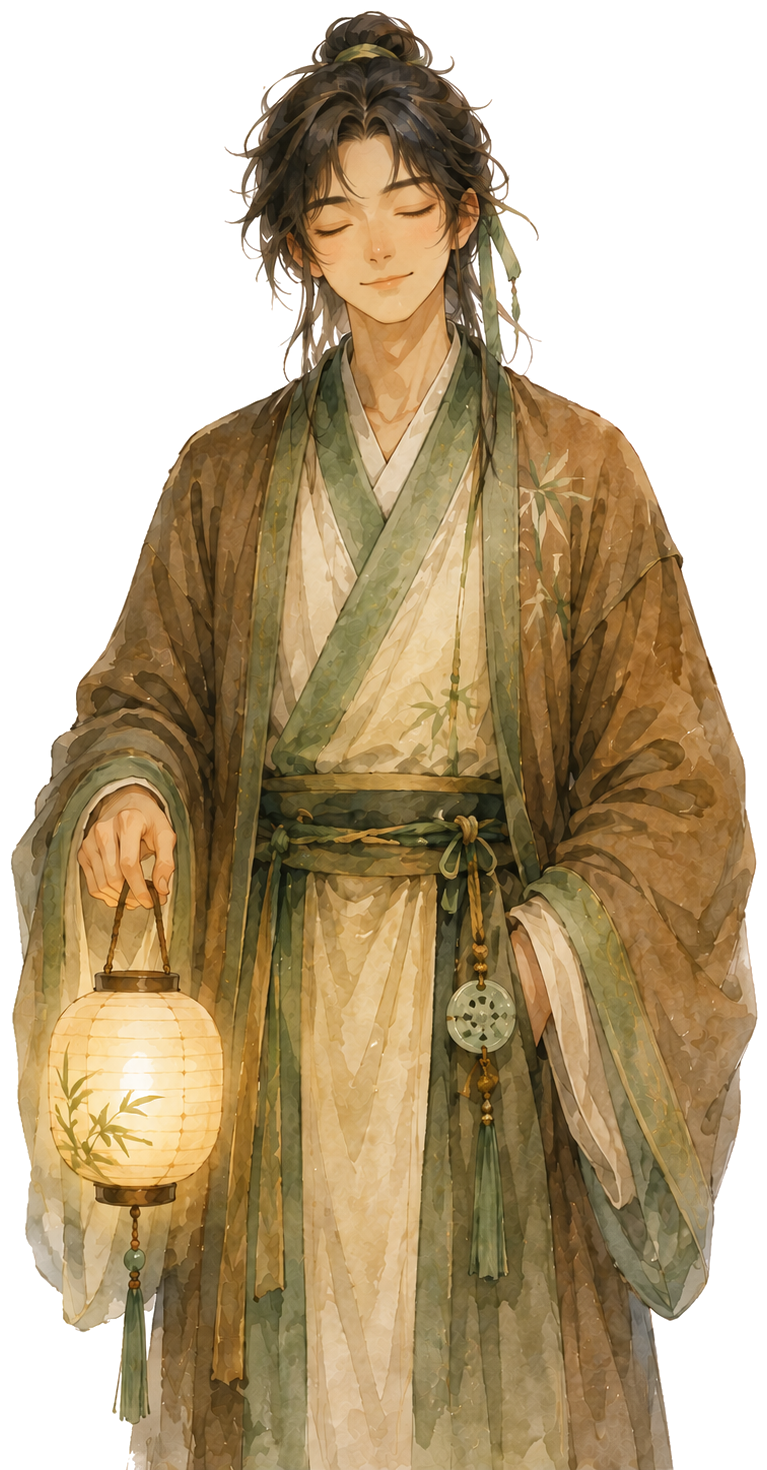
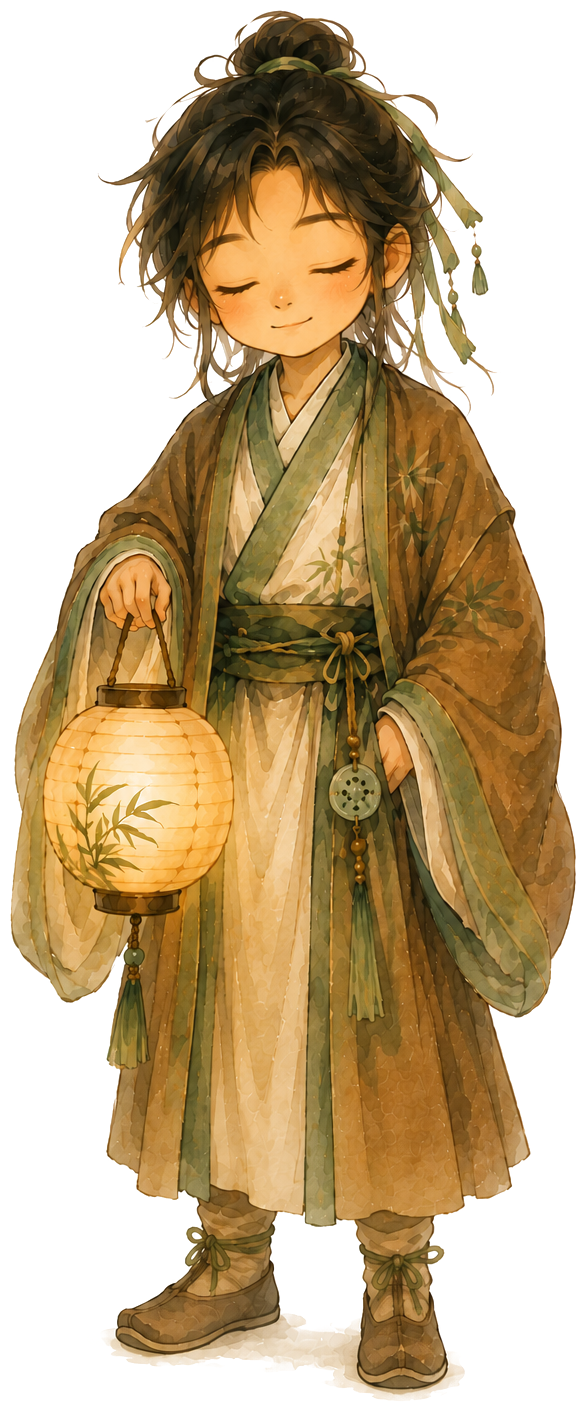
Added Onboarding screen and cultivator design change

diff --git a/src/app/cultivation.tsx b/src/app/cultivation.tsx
@@ -1,4 +1,5 @@
-import { Image, Pressable, StyleSheet, Text, View } from 'react-native';
+import { useState } from 'react';
+import { Image, Pressable, StyleSheet, Text, TextInput, View } from 'react-native';
 import { useTodayDate } from '../hooks/useTodayDate';
 import { daysBetween } from '../services/dayService';
 import {
@@ -6,6 +7,7 @@ import {
   getNextRealm,
   useCultivationStore,
 } from '../store/cultivationStore';
+import { useUserStore } from '../store/userStore';
 
 const REALM_BACKGROUNDS: Record<string, any> = {
   'Beginning Path': require('../../assets/images/cultivation/beginning-path.png'),
@@ -26,6 +28,11 @@ export default function CultivationScreen() {
   const daysSinceStart = startDate ? daysBetween(startDate, todayDate) : 0;
   const currentRealm = getCurrentRealm(totalPoints, daysSinceStart);
   const nextRealm = getNextRealm(currentRealm.name);
+
+  const userName = useUserStore((state) => state.name);
+  const setName = useUserStore((state) => state.setName);
+  const [editingName, setEditingName] = useState(false);
+  const [nameInput, setNameInput] = useState(userName ?? '');
 
   const handleResetAll = () => {
     resetAll();
@@ -51,15 +58,38 @@ export default function CultivationScreen() {
         )}
 
         {__DEV__ && (
-          <View style={styles.devRow}>
-            <Pressable onPress={() => addPoints(100)} style={styles.devButton}>
-              <Text style={styles.devButtonText}>+100 points (dev)</Text>
-            </Pressable>
-            <Pressable onPress={handleResetAll} style={styles.devButton}>
-              <Text style={styles.devButtonText}>Reset all (dev)</Text>
-            </Pressable>
-          </View>
-        )}
+  <View style={styles.devRow}>
+    <Pressable onPress={() => addPoints(100)} style={styles.devButton}>
+      <Text style={styles.devButtonText}>+100 points (dev)</Text>
+    </Pressable>
+    <Pressable onPress={handleResetAll} style={styles.devButton}>
+      <Text style={styles.devButtonText}>Reset all (dev)</Text>
+    </Pressable>
+  </View>
+)}
+
+<View style={styles.nameRow}>
+  {editingName ? (
+    <>
+      <TextInput
+        style={styles.nameInput}
+        value={nameInput}
+        onChangeText={setNameInput}
+        onSubmitEditing={() => {
+          if (nameInput.trim()) setName(nameInput.trim());
+          setEditingName(false);
+        }}
+      />
+      <Pressable onPress={() => { if (nameInput.trim()) setName(nameInput.trim()); setEditingName(false); }}>
+        <Text style={styles.nameEditText}>Save</Text>
+      </Pressable>
+    </>
+  ) : (
+    <Pressable onPress={() => setEditingName(true)}>
+      <Text style={styles.nameEditText}>Playing as {userName} — tap to change</Text>
+    </Pressable>
+  )}
+</View>
       </View>
     </View>
   );
@@ -76,4 +106,7 @@ const styles = StyleSheet.create({
   devRow: { flexDirection: 'row', gap: 10, marginTop: 20 },
   devButton: { backgroundColor: '#A8C3A0', paddingHorizontal: 16, paddingVertical: 10, borderRadius: 12 },
   devButtonText: { color: '#2C2A24', fontWeight: '600' },
+  nameRow: { marginTop: 10, backgroundColor: 'rgba(255,255,255,0.6)', borderRadius: 10, padding: 8 },
+  nameInput: { backgroundColor: 'white', borderRadius: 8, paddingHorizontal: 10, paddingVertical: 4, marginBottom: 6 },
+  nameEditText: { fontSize: 12, color: '#3E3A34', textAlign: 'center' },
 });

diff --git a/src/features/onboarding/Onboarding.tsx b/src/features/onboarding/Onboarding.tsx
@@ -1,0 +1,86 @@
+import { useState } from 'react';
+import { Image, KeyboardAvoidingView, Platform, Pressable, StyleSheet, Text, TextInput, View } from 'react-native';
+import { useUserStore } from '../../store/userStore';
+
+function OnboardingBackground({ children }: { children: React.ReactNode }) {
+  return (
+    <View style={styles.background}>
+      <Image
+        source={require('../../../assets/images/onboarding/background.png')}
+        style={{ position: 'absolute', top: 0, left: 0, right: 0, bottom: 0, width: '100%', height: '100%' }}
+        resizeMode="cover"
+      />
+      {children}
+    </View>
+  );
+}
+
+export default function Onboarding() {
+  const [step, setStep] = useState<'welcome' | 'name'>('welcome');
+  const [nameInput, setNameInput] = useState('');
+  const setName = useUserStore((state) => state.setName);
+  const completeOnboarding = useUserStore((state) => state.completeOnboarding);
+
+  const handleFinish = () => {
+    const trimmed = nameInput.trim();
+    if (trimmed.length === 0) return;
+    setName(trimmed);
+    completeOnboarding();
+  };
+
+  if (step === 'welcome') {
+    return (
+      <OnboardingBackground>
+        <View style={styles.content}>
+          <Text style={styles.title}>Welcome to Cultivate</Text>
+          <Text style={styles.subtitle}>Begin your journey with a companion.</Text>
+          <Pressable onPress={() => setStep('name')} style={styles.button}>
+            <Text style={styles.buttonText}>Next</Text>
+          </Pressable>
+        </View>
+      </OnboardingBackground>
+    );
+  }
+
+  return (
+    <OnboardingBackground>
+      <KeyboardAvoidingView
+        behavior={Platform.OS === 'ios' ? 'padding' : undefined}
+        style={styles.content}
+      >
+        <Text style={styles.title}>What should we call you, cultivator?</Text>
+        <TextInput
+          style={styles.input}
+          placeholder="Enter your name..."
+          placeholderTextColor="rgba(255,255,255,0.6)"
+          value={nameInput}
+          onChangeText={setNameInput}
+          onSubmitEditing={handleFinish}
+          returnKeyType="done"
+        />
+        <Pressable onPress={handleFinish} style={styles.button}>
+          <Text style={styles.buttonText}>Next</Text>
+        </Pressable>
+      </KeyboardAvoidingView>
+    </OnboardingBackground>
+  );
+}
+
+const styles = StyleSheet.create({
+  background: { flex: 1 },
+  content: { flex: 1, alignItems: 'center', justifyContent: 'center', padding: 30, gap: 20 },
+  title: { fontSize: 24, fontWeight: '600', color: 'white', textAlign: 'center' },
+  subtitle: { fontSize: 15, color: 'rgba(255,255,255,0.85)', textAlign: 'center' },
+  input: {
+    width: '100%',
+    backgroundColor: 'rgba(255,255,255,0.15)',
+    borderRadius: 14,
+    paddingHorizontal: 16,
+    paddingVertical: 12,
+    color: 'white',
+    fontSize: 16,
+    textAlign: 'center',
+  },
+  button: { backgroundColor: '#A8C3A0', paddingHorizontal: 32, paddingVertical: 12, borderRadius: 20 },
+  buttonText: { color: '#2C2A24', fontWeight: '600', fontSize: 16 },
+});

diff --git a/src/features/companion/Companion.tsx b/src/features/companion/Companion.tsx
@@ -1,11 +1,11 @@
 import { useEffect, useRef, useState } from 'react';
 import { Animated, Image, Pressable, StyleSheet, Text, View } from 'react-native';
 import { Season, TimeOfDay, Weather } from '../../services/worldService';
+import { useUserStore } from '../../store/userStore';
 import {
-  AMBIENT_LINES,
-  SEASON_LINES,
+  AMBIENT_LINES, getNameLines, SEASON_LINES,
   TAP_REACTION_LINES,
-  WEATHER_LINES,
+  WEATHER_LINES
 } from './dialogueLines';
 
 const eyesOpenImage = require('../../../assets/images/companion/lantern_keeper_open.png');
@@ -56,12 +56,13 @@ export default function Companion({
   useEffect(() => {
     const ambientInterval = setInterval(() => {
       const weatherLines = timeOfDay === 'night' ? WEATHER_LINES[weather].night : WEATHER_LINES[weather].day;
-      const pool = [...AMBIENT_LINES, ...SEASON_LINES[season], ...weatherLines];
+      const nameLines = userName ? getNameLines(userName) : [];
+      const pool = [...AMBIENT_LINES, ...SEASON_LINES[season], ...weatherLines, ...nameLines];
       const randomLine = pool[Math.floor(Math.random() * pool.length)];
       showBubble(randomLine);
     }, 18000);
     return () => clearInterval(ambientInterval);
-  }, [season, weather, timeOfDay]);
+  }, [season, weather, timeOfDay, userName]);
 
   const handleTap = () => {
     const randomLine = TAP_REACTION_LINES[Math.floor(Math.random() * TAP_REACTION_LINES.length)];
@@ -91,6 +92,7 @@ export default function Companion({
     </View>
   );
 }
+const userName = useUserStore((state) => state.name);
 
 const CHARACTER_WIDTH = 190;
 const CHARACTER_ASPECT_RATIO = 766 / 1469; // width / height, from the source art

diff --git a/src/store/userStore.ts b/src/store/userStore.ts
@@ -1,0 +1,30 @@
+import { create } from 'zustand';
+import { createJSONStorage, persist } from 'zustand/middleware';
+import { safeStorage } from '../services/safeStorage';
+
+type UserStore = {
+  name: string | null;
+  hasOnboarded: boolean;
+  hasHydrated: boolean;
+  setName: (name: string) => void;
+  completeOnboarding: () => void;
+};
+
+export const useUserStore = create<UserStore>()(
+  persist(
+    (set) => ({
+      name: null,
+      hasOnboarded: false,
+      hasHydrated: false,
+      setName: (name) => set({ name }),
+      completeOnboarding: () => set({ hasOnboarded: true }),
+    }),
+    {
+      name: 'cultivate-user',
+      storage: createJSONStorage(() => safeStorage),
+      onRehydrateStorage: () => () => {
+        useUserStore.setState({ hasHydrated: true });
+      },
+    }
+  )
+);

diff --git a/src/app/_layout.tsx b/src/app/_layout.tsx
@@ -4,15 +4,20 @@ import { useColorScheme } from 'react-native';
 
 import { AnimatedSplashOverlay } from '@/components/animated-icon';
 import AppTabs from '@/components/app-tabs';
+import Onboarding from '@/features/onboarding/Onboarding';
+import { useUserStore } from '@/store/userStore';
 
 SplashScreen.preventAutoHideAsync();
 
 export default function TabLayout() {
   const colorScheme = useColorScheme();
+  const hasOnboarded = useUserStore((state) => state.hasOnboarded);
+  const hasHydrated = useUserStore((state) => state.hasHydrated);
+
   return (
     <ThemeProvider value={colorScheme === 'dark' ? DarkTheme : DefaultTheme}>
       <AnimatedSplashOverlay />
-      <AppTabs />
+      {hasHydrated && (hasOnboarded ? <AppTabs /> : <Onboarding />)}
     </ThemeProvider>
   );
 }

diff --git a/src/features/companion/dialogueLines.ts b/src/features/companion/dialogueLines.ts
@@ -63,3 +63,10 @@ export const TAP_REACTION_LINES: string[] = [
   "Let's do our best today.",
   'The moon is nearly full.',
 ];
+export function getNameLines(name: string): string[] {
+  return [
+    `Hello ${name}, how are you today?`,
+    `${name}, it's good to see you.`,
+    `Welcome back, ${name}.`,
+  ];
+}
